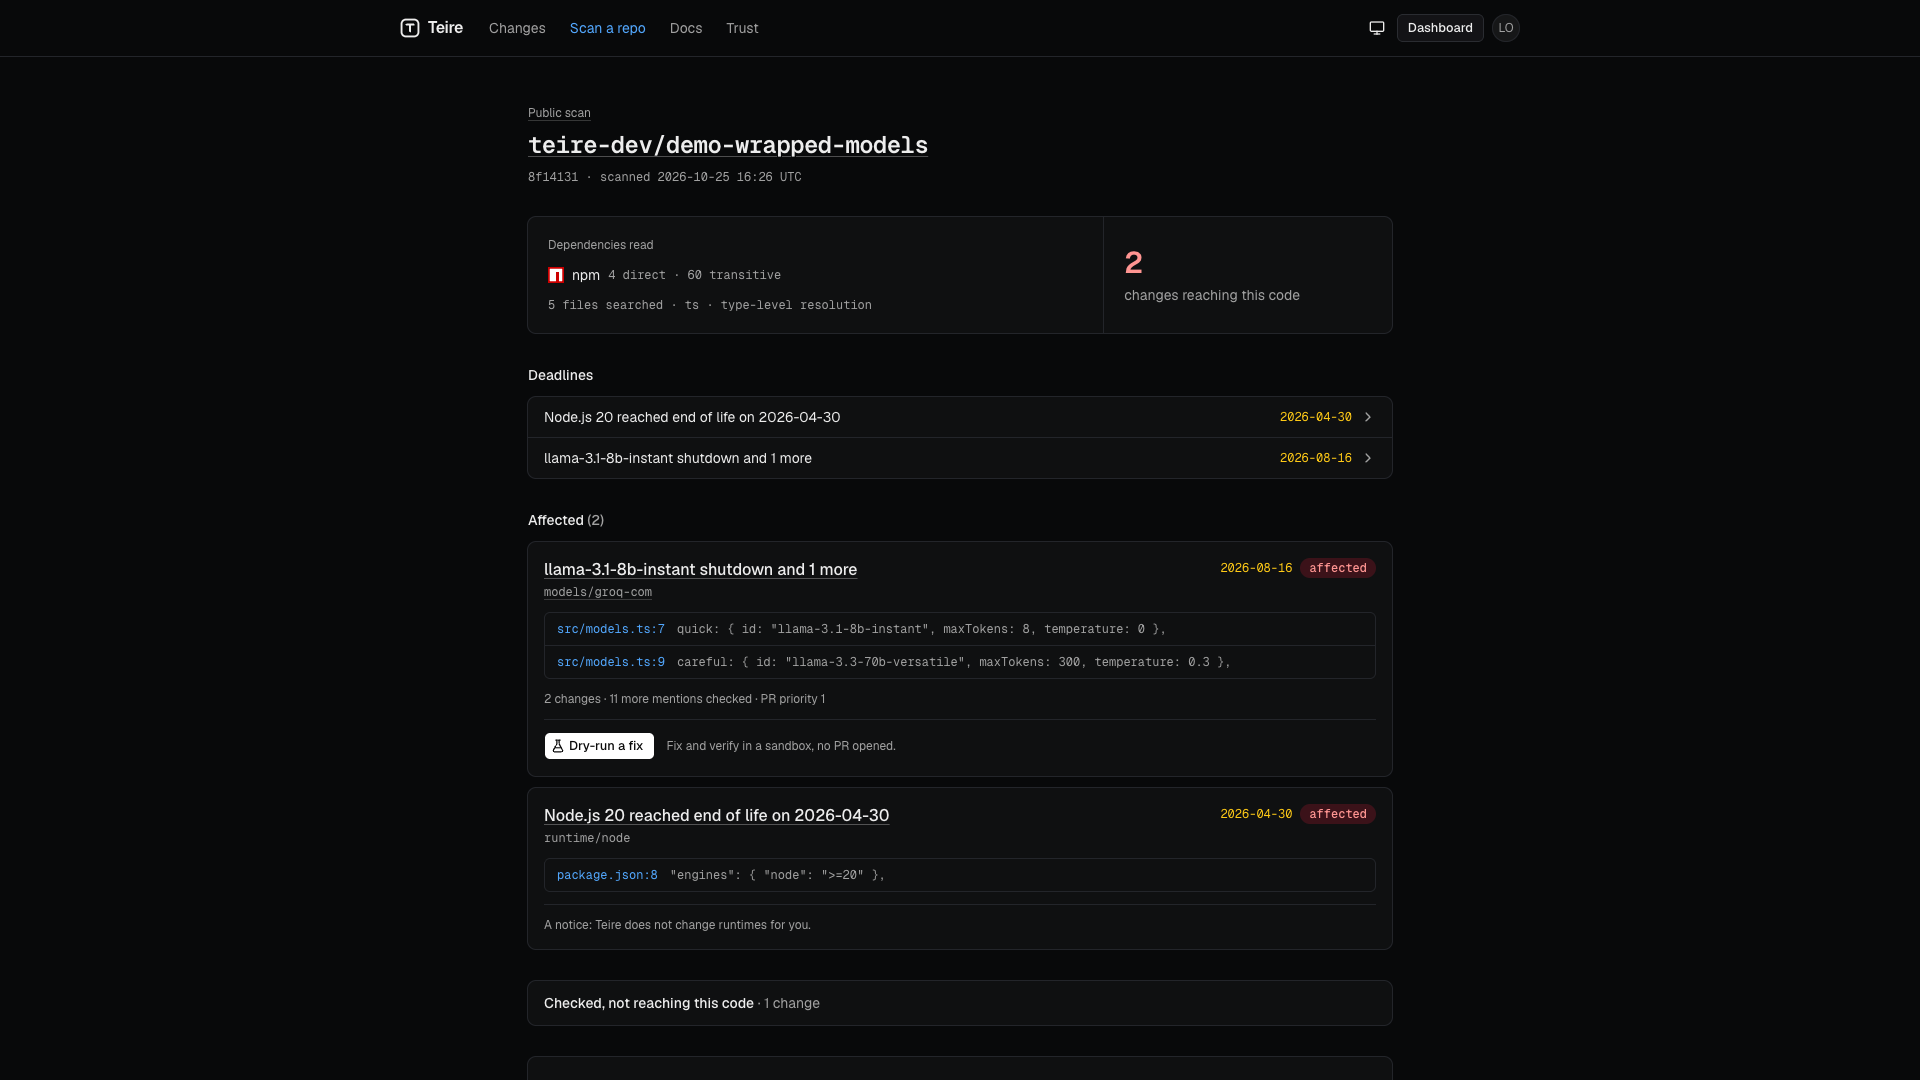
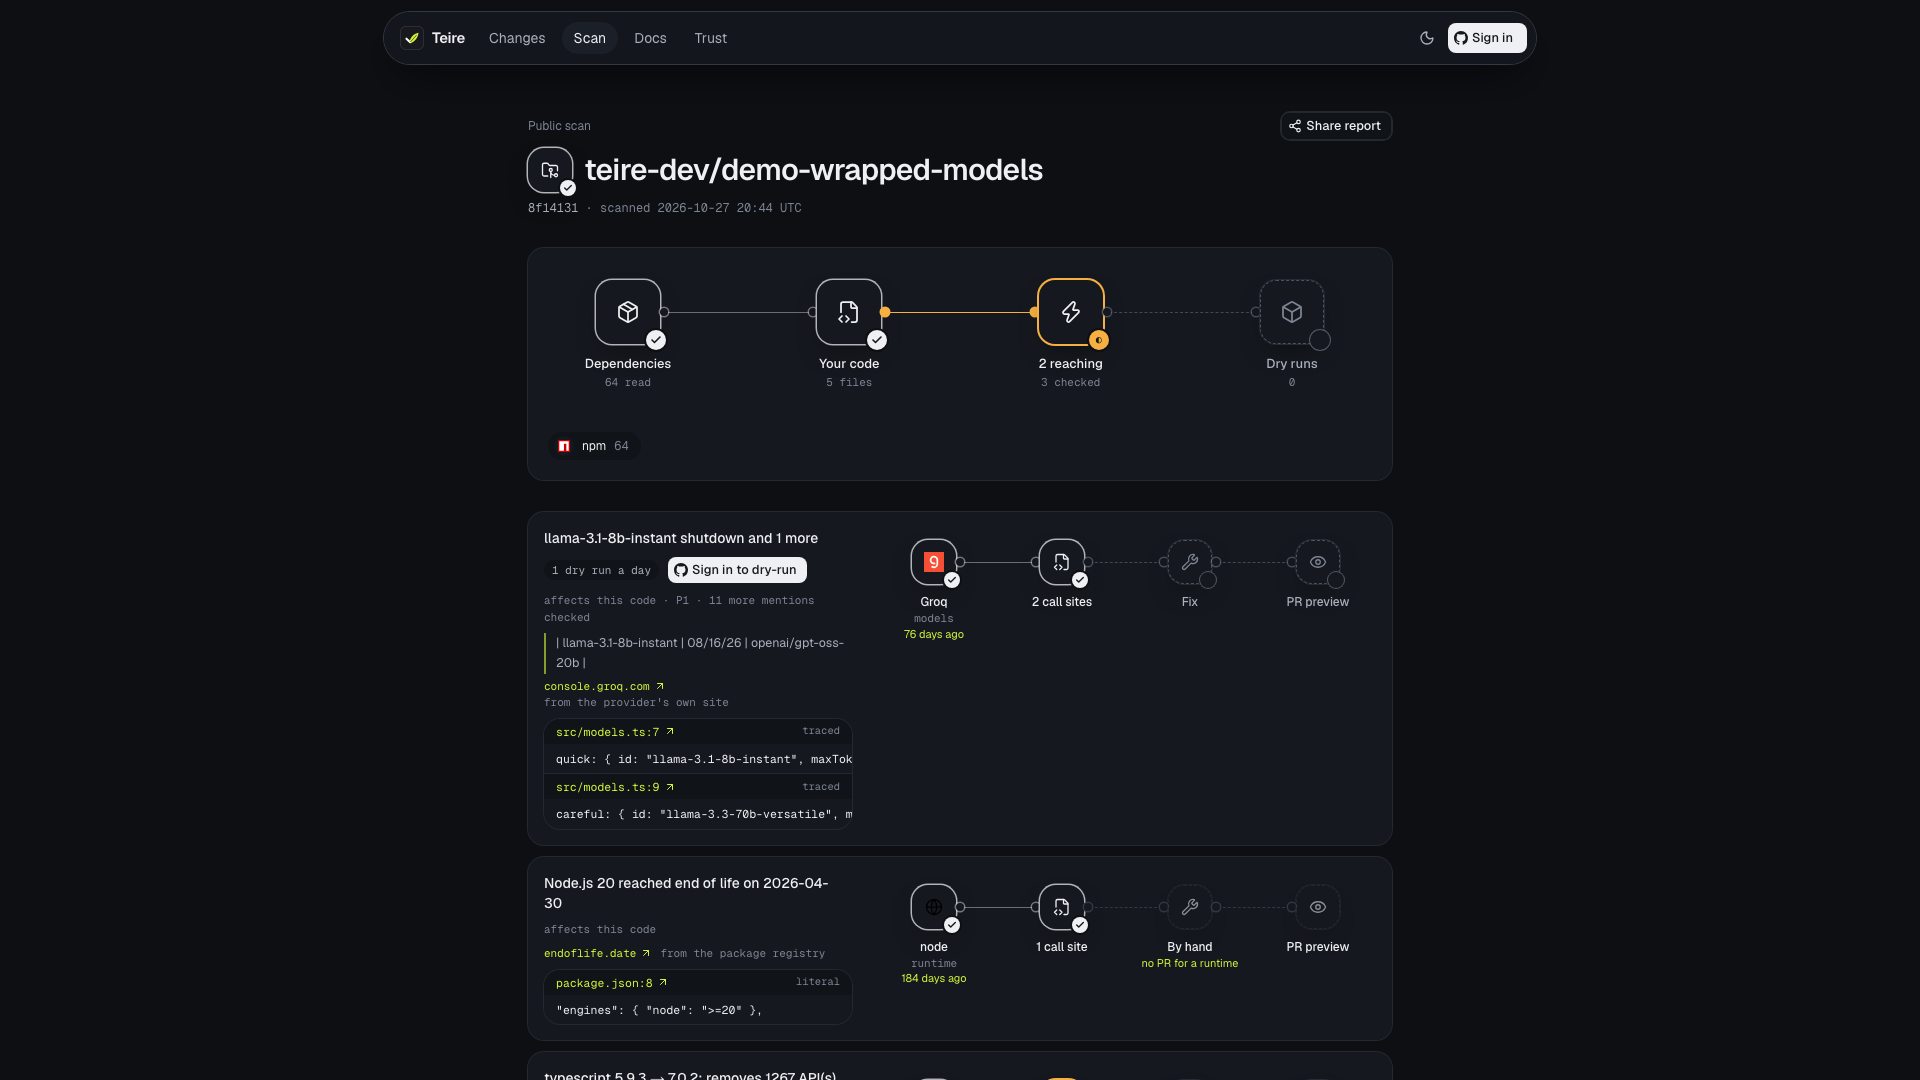
The Groq wrapped-models report in the new look, at its old name and back in the README walkthrough
The report's findings had moved to the repository's 27 October scan, so its public page read
'nothing reaching'. Rendered from that scan (locally, data restored after), it shows the real
findings in graphite and lime: the llama-3.1-8b-instant shutdown quoted from console.groq.com and
traced to src/models.ts:7 and :9, and Node.js 20's end of life at package.json:8. It replaces the
navy report-wrapped-models-desktop.png under the same name, so the submission story's image updates,
and the README walkthrough shows it in light and dark instead of the Groq provider page.

diff --git a/README.md b/README.md
@@ -84,13 +84,11 @@ Groq shut down `llama-3.1-8b-instant` and `llama-3.3-70b-versatile` on 2026-08-1
 5. **Pull request.** Evidence `verified` means a ready PR that opens with **Verified.** This run is from Teire's evaluation, through the same code path an installed repository takes; PRs on real installed repositories are linked under Proof as they open.
 
 <p align="center">
-  <a href="https://teire.vercel.app/providers/groq-com">
-    <picture>
-      <source media="(prefers-color-scheme: dark)" srcset=".github/assets/captures/groq-dark.png" />
-      <source media="(prefers-color-scheme: light)" srcset=".github/assets/captures/groq-light.png" />
-      <img src=".github/assets/captures/groq-light.png" width="960" alt="Groq's provider page on teire.vercel.app: discovered in code, its three pages read by Nemotron with every quote checked, 43 changes, the pages it watches with their status, and the retirement timeline." />
-    </picture>
-  </a>
+  <picture>
+    <source media="(prefers-color-scheme: dark)" srcset=".github/assets/captures/wrapped-models-dark.png" />
+    <source media="(prefers-color-scheme: light)" srcset=".github/assets/captures/wrapped-models-light.png" />
+    <img src=".github/assets/captures/wrapped-models-light.png" width="960" alt="The public report for teire-dev/demo-wrapped-models: 64 dependencies read, 2 changes reaching this code; the llama-3.1-8b-instant shutdown quoted from console.groq.com and traced to src/models.ts:7 and :9, and Node.js 20's end of life at package.json:8 from endoflife.date." />
+  </picture>
 </p>
 
 Every model fix and every package fix follows the same loop. The [Go major](https://teire.vercel.app/docs/guide/anatomy-of-a-pr) (`golang-jwt/jwt` v4 → v5) is a second worked example: the agent moved `StandardClaims` to `RegisteredClaims` and the expiry check to `errors.Is(err, jwt.ErrTokenExpired)`, then verified 4/4 for $0.181.
